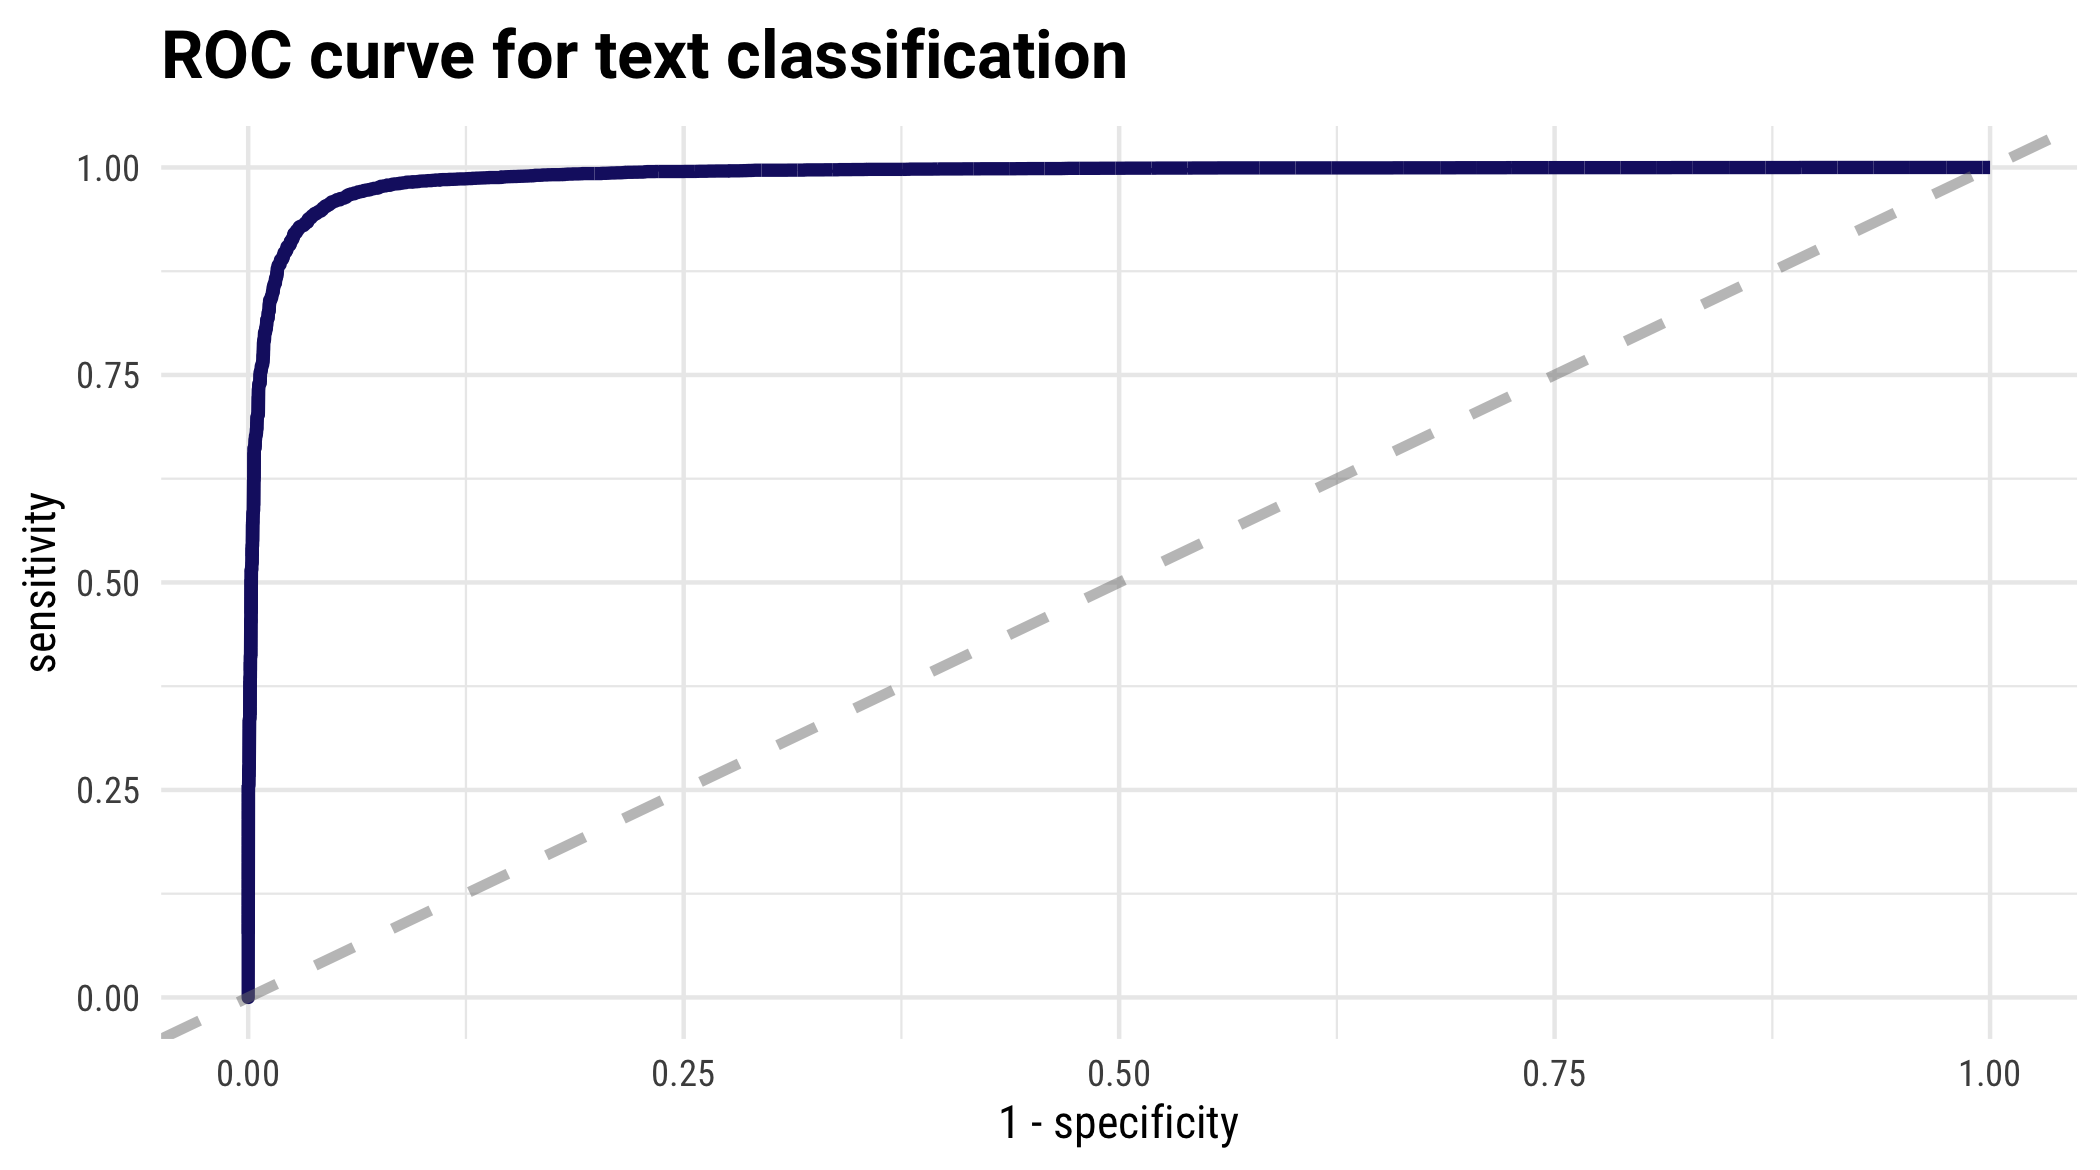
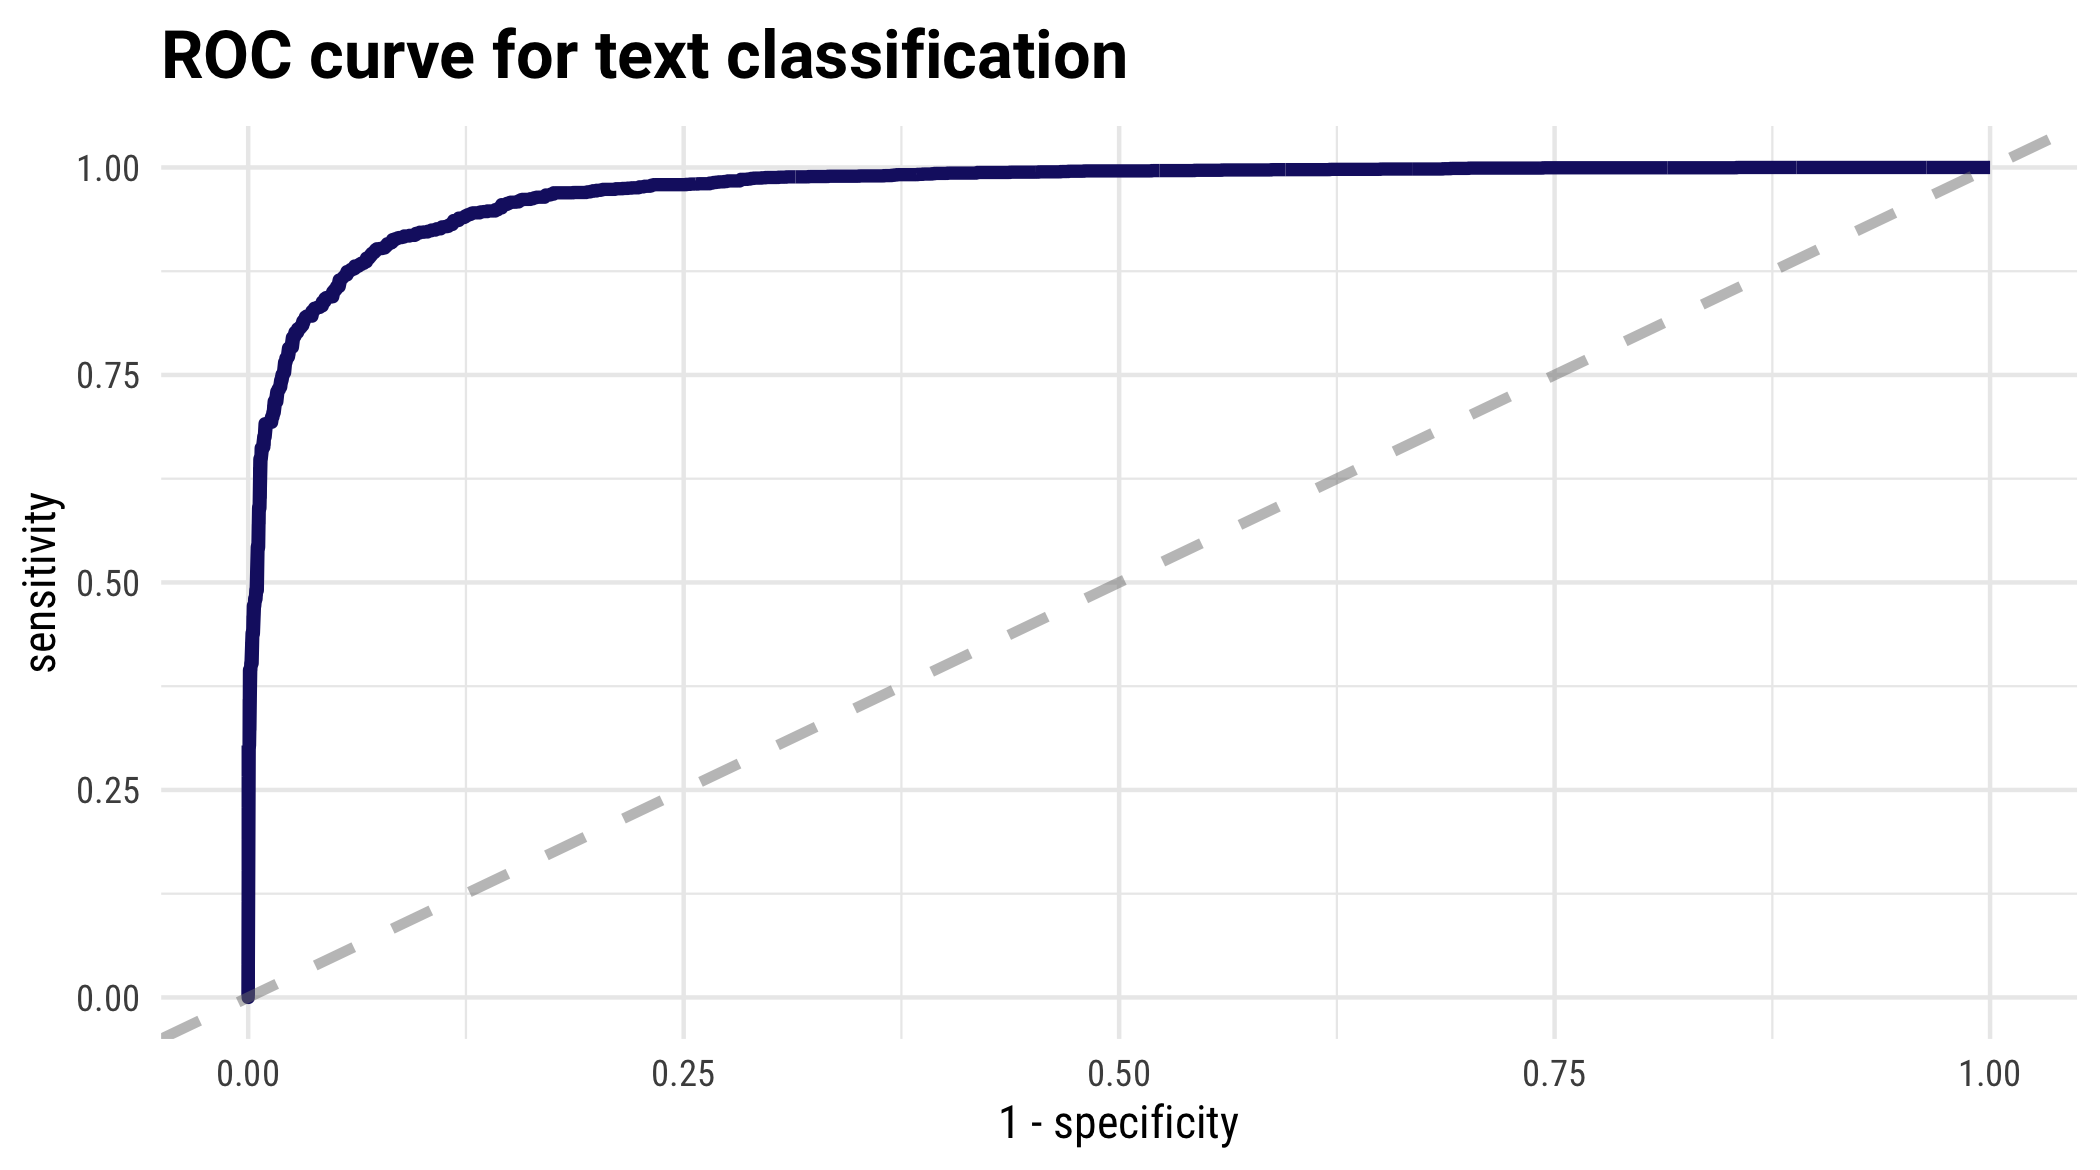
Fix train/test leakage in day 2

Changed region(s): [[0.0929, 0.1231, 0.681, 0.5231]]

diff --git a/materials/slides/modeling.html b/materials/slides/modeling.html
@@ -807,7 +807,7 @@ k_result %&gt;%
 
 --
 
-- .large[Correlates well with human judgment of topic quality 😆]
+- .large[Correlates well with human judgment of topic quality 😄]
 
 --
 
@@ -926,7 +926,7 @@ glimpse(tidy_books)
 library(rsample)
 
 books_split &lt;- tidy_books %&gt;%
-  select(document) %&gt;%
+  distinct(document) %&gt;%
 * initial_split()
 
 train_data &lt;- training(books_split)
@@ -959,7 +959,7 @@ dim(sparse_words)
 ```
 
 ```
-## [1] 15911  1652
+## [1] 12039  1652
 ```
 
 ---
@@ -970,7 +970,7 @@ dim(sparse_words)
 
 .large[Which `dim` of the sparse matrix is the number of features?]
 
-- .large[15911]
+- .large[12039]
 - .large[1652]
 
 .large[Feature = term = word]
@@ -1003,9 +1003,9 @@ glimpse(books_joined)
 ```
 
 ```
-## Observations: 15,911
+## Observations: 12,039
 ## Variables: 2
-## $ document &lt;int&gt; 4532, 6450, 14686, 15669, 308, 1264, 1287, 1487, 1639, 1698,…
+## $ document &lt;int&gt; 4532, 6450, 15669, 308, 1264, 1287, 1698, 1897, 2135, 2161, …
 ## $ title    &lt;chr&gt; "The War of the Worlds", "The War of the Worlds", "Pride and…
 ```
 
@@ -1094,11 +1094,11 @@ glimpse(classifications)
 ```
 
 ```
-## Observations: 14,450
+## Observations: 3,992
 ## Variables: 3
-## $ document    &lt;int&gt; 1, 3, 7, 8, 13, 15, 24, 25, 26, 27, 28, 30, 31, 32, 33, 3…
-## $ score       &lt;dbl&gt; -6.9574480, 0.2116710, -1.9600373, -1.1694809, -0.2357058…
-## $ probability &lt;dbl&gt; 1.175164e-03, 6.044275e-01, 1.483299e-01, 2.774383e-01, 4…
+## $ document    &lt;int&gt; 1, 6, 7, 28, 29, 33, 34, 37, 45, 50, 51, 52, 53, 55, 60, …
+## $ score       &lt;dbl&gt; -2.2303223, 2.0101769, -1.1689632, -1.7574498, -2.2689393…
+## $ probability &lt;dbl&gt; 0.122328656, 0.906356553, 0.287163207, 0.182770543, 0.118…
 ```
 
 ---
@@ -1186,11 +1186,11 @@ glimpse(comment_classes)
 ```
 
 ```
-## Observations: 14,450
+## Observations: 3,992
 ## Variables: 4
-## $ document    &lt;int&gt; 1, 3, 7, 8, 13, 15, 24, 25, 26, 27, 28, 30, 31, 32, 33, 3…
-## $ score       &lt;dbl&gt; -6.9574480, 0.2116710, -1.9600373, -1.1694809, -0.2357058…
-## $ probability &lt;dbl&gt; 1.175164e-03, 6.044275e-01, 1.483299e-01, 2.774383e-01, 4…
+## $ document    &lt;int&gt; 1, 6, 7, 28, 29, 33, 34, 37, 45, 50, 51, 52, 53, 55, 60, …
+## $ score       &lt;dbl&gt; -2.2303223, 2.0101769, -1.1689632, -1.7574498, -2.2689393…
+## $ probability &lt;dbl&gt; 0.122328656, 0.906356553, 0.287163207, 0.182770543, 0.118…
 ## $ title       &lt;fct&gt; The War of the Worlds, The War of the Worlds, The War of …
 ```
 
@@ -1231,7 +1231,7 @@ comment_classes %&gt;%
 ## # A tibble: 1 x 3
 ##   .metric .estimator .estimate
 ##   &lt;chr&gt;   &lt;chr&gt;          &lt;dbl&gt;
-## 1 roc_auc binary         0.990
+## 1 roc_auc binary         0.973
 ```
 
 ---
@@ -1265,8 +1265,8 @@ comment_classes %&gt;%
 ```
 ##                        Truth
 ## Prediction              Pride and Prejudice The War of the Worlds
-##   Pride and Prejudice                  9407                   358
-##   The War of the Worlds                 238                  4447
+##   Pride and Prejudice                  2511                   182
+##   The War of the Worlds                 141                  1158
 ```
 
 ---
@@ -1289,11 +1289,11 @@ comment_classes %&gt;%
 ## # A tibble: 5 x 2
 ##   probability text                                                              
 ##         &lt;dbl&gt; &lt;chr&gt;                                                             
-## 1       0.806 confidence in the future which is the most fruitful source of     
-## 2       0.996 upstairs myself for the box she was clamouring for.               
-## 3       0.870 regard as inferior animals.  To carry warfare sunward is, indeed, 
-## 4       0.998 am convinced--as firmly as I am convinced of anything--that the   
-## 5       0.901 his gardening was as generous as it was enthusiastic.  At the same
+## 1       0.803 torrent of half-sane and always frothy repentance for his vacant …
+## 2       0.903 ladies there being by no means the least active.                  
+## 3       0.862 and all that is necessary for the support of animated existence.  
+## 4       0.968 evening paper, after wiring for authentication from him and recei…
+## 5       0.991 turned hastily to his own room, put all his available money--some…
 ```
 
 ---
@@ -1316,11 +1316,11 @@ comment_classes %&gt;%
 ## # A tibble: 5 x 2
 ##   probability text                                                              
 ##         &lt;dbl&gt; &lt;chr&gt;                                                             
-## 1      0.119  "to find out the stand and number of the coach. I do not know of …
-## 2      0.0646 "laid the foundation. It is too long ago. I was in the middle bef…
-## 3      0.0492 "An express came at twelve last night, just as we were all gone t…
-## 4      0.0138 "of men, and that he hates me.\""                                 
-## 5      0.269  "clergyman, and his right as a rector, made him altogether a mixt…
+## 1      0.157  "\"I know them a little. Their brother is a pleasant gentlemanlik…
+## 2      0.239  "man about them, that he advanced but little. Whilst wandering on…
+## 3      0.0312 "foxhounds, and drink a bottle of wine a day.\""                  
+## 4      0.214  "At five o'clock the two ladies retired to dress, and at half-pas…
+## 5      0.175  "into his own hands."
 ```
 
 ---
